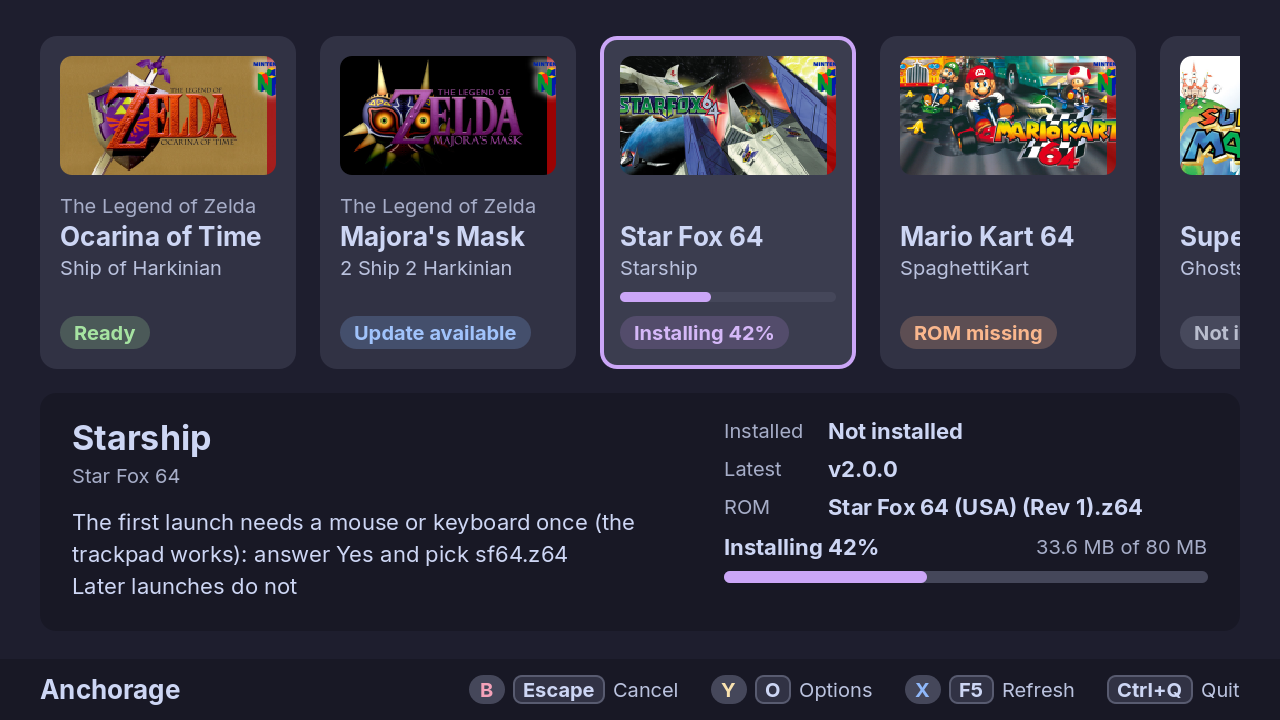
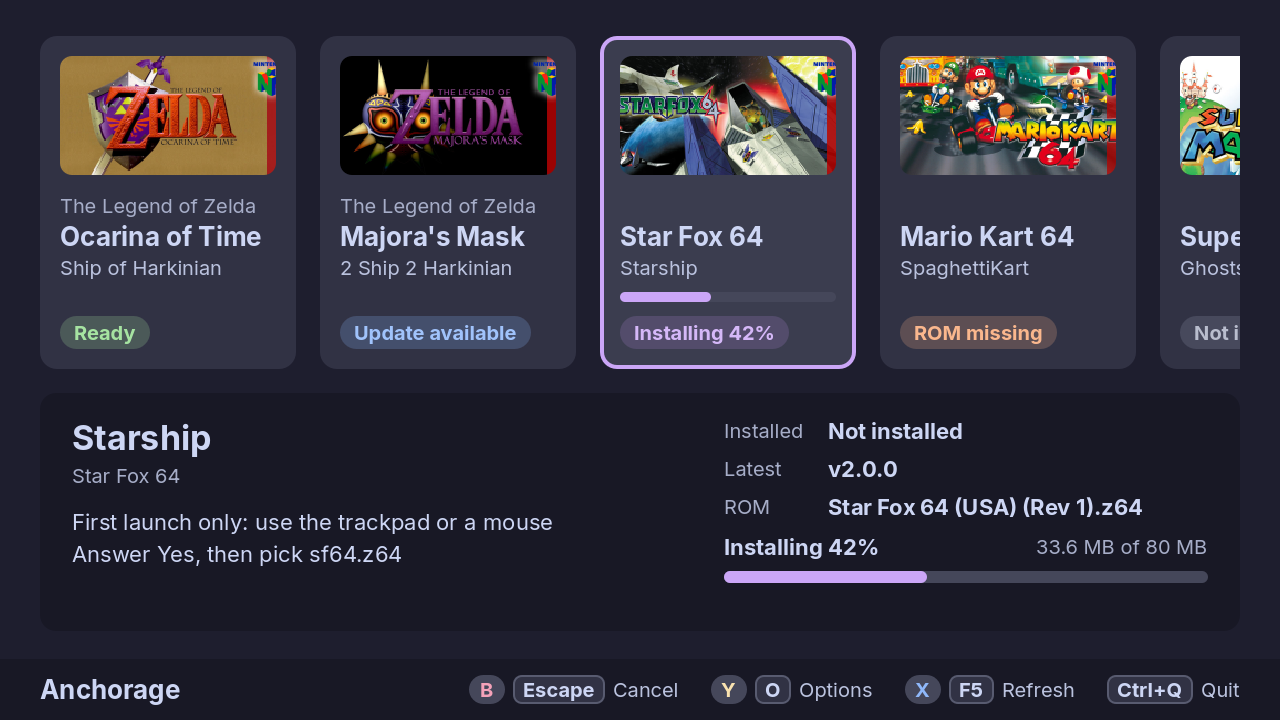
README and screenshots follow the shorter first-launch notes and the installer's record
The ports table quotes the catalog's new first-launch notes, and the two screenshots that show a note were retaken. The install notes say where the installer keeps its record and that --uninstall removes only the files it wrote, keeping artwork set in Steam.

Spec: INT-43, INT-34, INT-33, PORT-17

Changed region(s): [[0.0625, 0.7028, 0.5, 0.825]]

diff --git a/README.md b/README.md
@@ -49,7 +49,7 @@ the right one. It never downloads ROMs.
 | | |
 |---|---|
 | ![Starship downloading at 42 percent, with a progress bar on its card and in the detail panel](docs/screenshots/installing.png) | ![The ROM folder chooser at ~/Emulation/roms, with the n64 folder highlighted and its count of six ROM files](docs/screenshots/rom-folder.png) |
-| ![The options menu for Ship of Harkinian: Play, Check for updates, ROM folder and Remove](docs/screenshots/menu.png) | ![Catppuccin Latte with the blue accent, scrolled to Ghostship, PaperBoat and Lighthouse](docs/screenshots/latte.png) |
+| ![The options menu for Ship of Harkinian: Play, Check for updates, ROM folder and Remove](docs/screenshots/menu.png) | ![Catppuccin Latte with the blue accent, scrolled to Ghostship and its first-launch note](docs/screenshots/latte.png) |
 
 ## Install
 
@@ -79,7 +79,10 @@ It downloads the latest release's AppImage to `~/Applications/Anchorage.AppImage
 checks it against the release's `SHA256SUMS`, adds a desktop entry and icon, and adds an
 "Anchorage" shortcut with its artwork to every Steam account on the device (native Steam
 and Flatpak Steam). It backs up `shortcuts.vdf` before it changes it and never touches
-another game's shortcut. It needs only bash, curl and coreutils, and asks no questions.
+another game's shortcut. It keeps a record of the files it wrote, with their checksums, in
+`~/.local/state/anchorage-installer/`, and replaces artwork only while it is still the
+image it put there, so art you set in Steam yourself stays. It needs only bash, curl and
+coreutils, and asks no questions.
 
 Piping a script from the internet into bash is a leap of faith, so read it first: its
 source is [`scripts/install-steamos.sh`](https://github.com/DisposableSoftware/anchorage/blob/main/scripts/install-steamos.sh),
@@ -88,8 +91,9 @@ and each release attaches a copy with only that release's version filled in.
 - **Update:** run the same command again. When the installed version is the latest, it
   does nothing.
 - **Remove:** `curl -fsSL https://github.com/DisposableSoftware/anchorage/releases/latest/download/install-steamos.sh | bash -s -- --uninstall`
-  removes what the script added. Your ports, saves and settings stay; it lists their
-  folders so you can delete them too.
+  removes the shortcut and only the files the script wrote, as its record lists them;
+  artwork you set yourself stays. Your ports, saves and settings stay too; it lists their
+  folders so you can delete them.
 - **Look first:** `... | bash -s -- --dry-run` says what it would do and changes nothing.
 - **A given version:** run the copy attached to that release, which installs that release:
   `curl -fsSL https://github.com/DisposableSoftware/anchorage/releases/download/vX.Y.Z/install-steamos.sh | bash`.
@@ -183,13 +187,13 @@ On a desktop, run `anchorage` (or the AppImage). The window has the Wayland app 
 
 | Game | Port | ROM versions | First launch |
 |---|---|---|---|
-| The Legend of Zelda: Ocarina of Time | [Ship of Harkinian](https://github.com/HarbourMasters/Shipwright) | N64 1.0 to 1.2 (US, JP, PAL), GameCube and Master Quest | Makes the game files from your ROM. If it then asks to run the game, close it and press Play again |
-| The Legend of Zelda: Majora's Mask | [2Ship2Harkinian](https://github.com/2ship2harkinian/2ship2harkinian) | US 1.0, US GameCube | Makes the game files from your ROM. If it then asks to run the game, close it and press Play again |
-| Star Fox 64 | [Starship](https://github.com/HarbourMasters/Starship) | US 1.0, US 1.1 | Needs a mouse or keyboard once (the trackpad works): answer Yes and pick `sf64.z64` |
-| Mario Kart 64 | [SpaghettiKart](https://github.com/HarbourMasters/SpaghettiKart) | US | Needs a mouse or keyboard once (the trackpad works) to answer its questions |
-| Super Mario 64 | [Ghostship](https://github.com/HarbourMasters/Ghostship) | US, JP | Needs a mouse or keyboard once (the trackpad works): answer Yes twice |
-| Paper Mario | [PaperBoat](https://github.com/HarbourMasters/PaperBoat) | US | Needs a mouse or keyboard once (the trackpad works) to answer its questions |
-| Banjo-Kazooie | [Lighthouse](https://github.com/HarbourMasters/Lighthouse) | US 1.0, US 1.1, PAL, JP | Makes the game files from your ROM. If it then asks to run the game, close it and press Play again |
+| The Legend of Zelda: Ocarina of Time | [Ship of Harkinian](https://github.com/HarbourMasters/Shipwright) | N64 1.0 to 1.2 (US, JP, PAL), GameCube and Master Quest | The first launch makes the game files from your ROM. If it then asks to run, close it and press Play again |
+| The Legend of Zelda: Majora's Mask | [2Ship2Harkinian](https://github.com/2ship2harkinian/2ship2harkinian) | US 1.0, US GameCube | The first launch makes the game files from your ROM. If it then asks to run, close it and press Play again |
+| Star Fox 64 | [Starship](https://github.com/HarbourMasters/Starship) | US 1.0, US 1.1 | First launch only: use the trackpad or a mouse. Answer Yes, then pick `sf64.z64` |
+| Mario Kart 64 | [SpaghettiKart](https://github.com/HarbourMasters/SpaghettiKart) | US | First launch only: answer its questions with the trackpad or a mouse |
+| Super Mario 64 | [Ghostship](https://github.com/HarbourMasters/Ghostship) | US, JP | First launch only: use the trackpad or a mouse. Answer Yes to both questions |
+| Paper Mario | [PaperBoat](https://github.com/HarbourMasters/PaperBoat) | US | First launch only: answer its questions with the trackpad or a mouse |
+| Banjo-Kazooie | [Lighthouse](https://github.com/HarbourMasters/Lighthouse) | US 1.0, US 1.1, PAL, JP | The first launch makes the game files from your ROM. If it then asks to run, close it and press Play again |
 
 Later launches need nothing. The detail panel shows the first-launch note until the port
 has made its game files, and lists the ROM versions it accepts while none is found.
